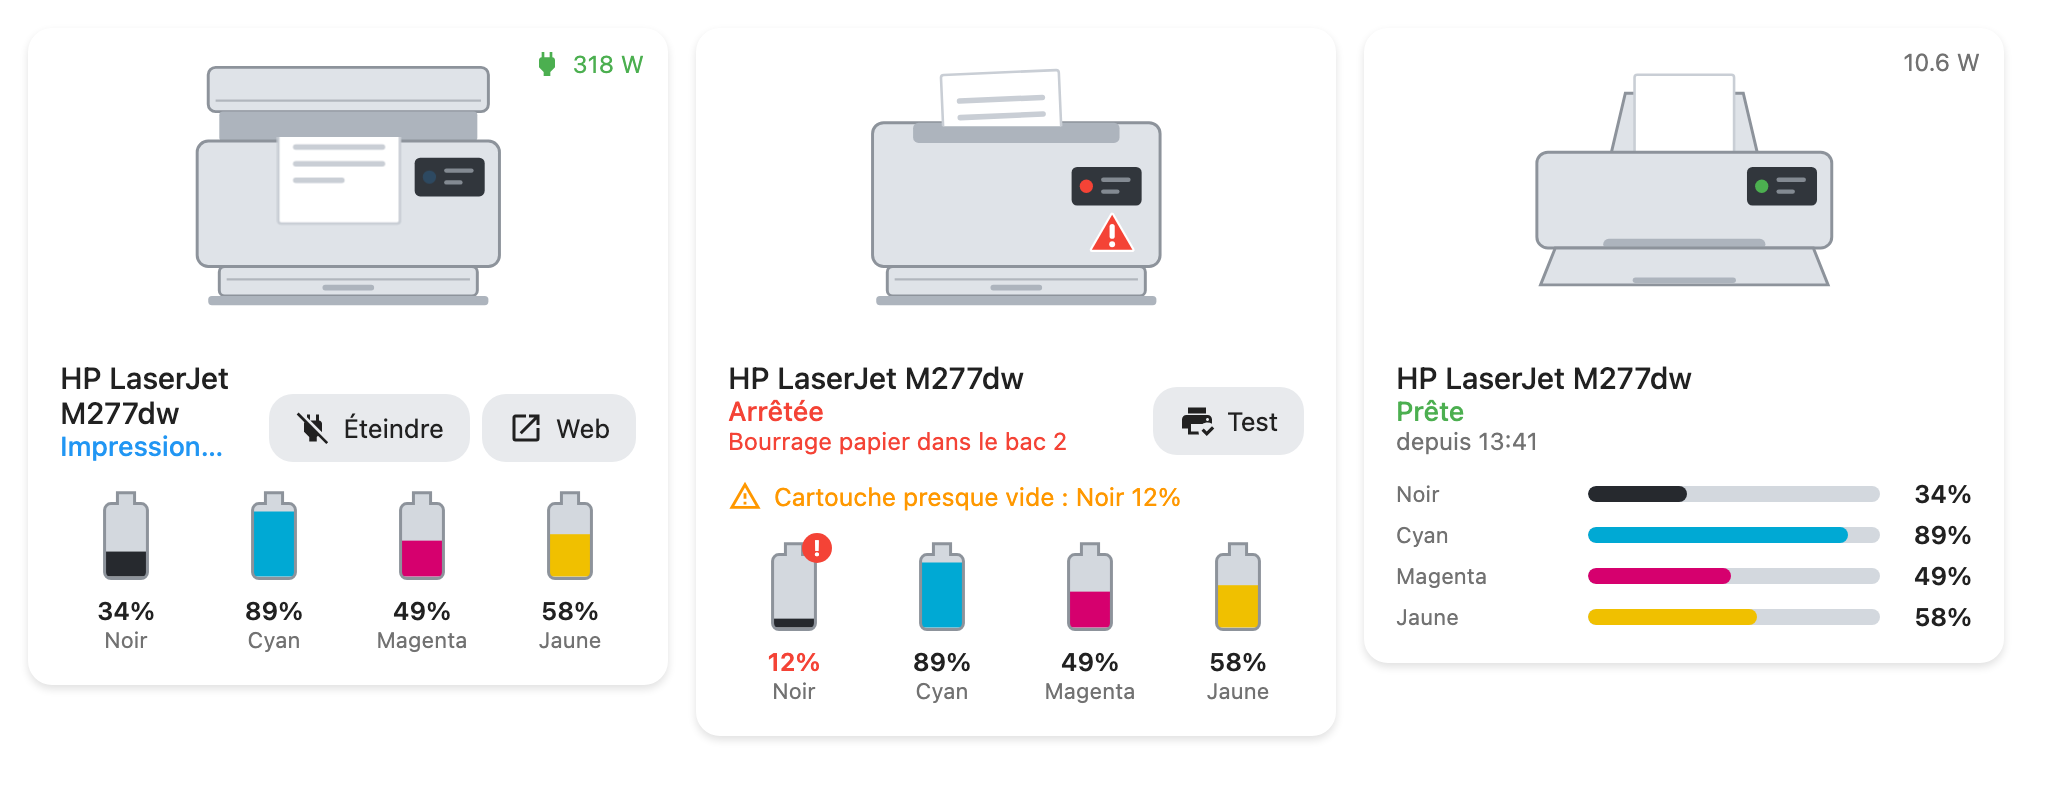
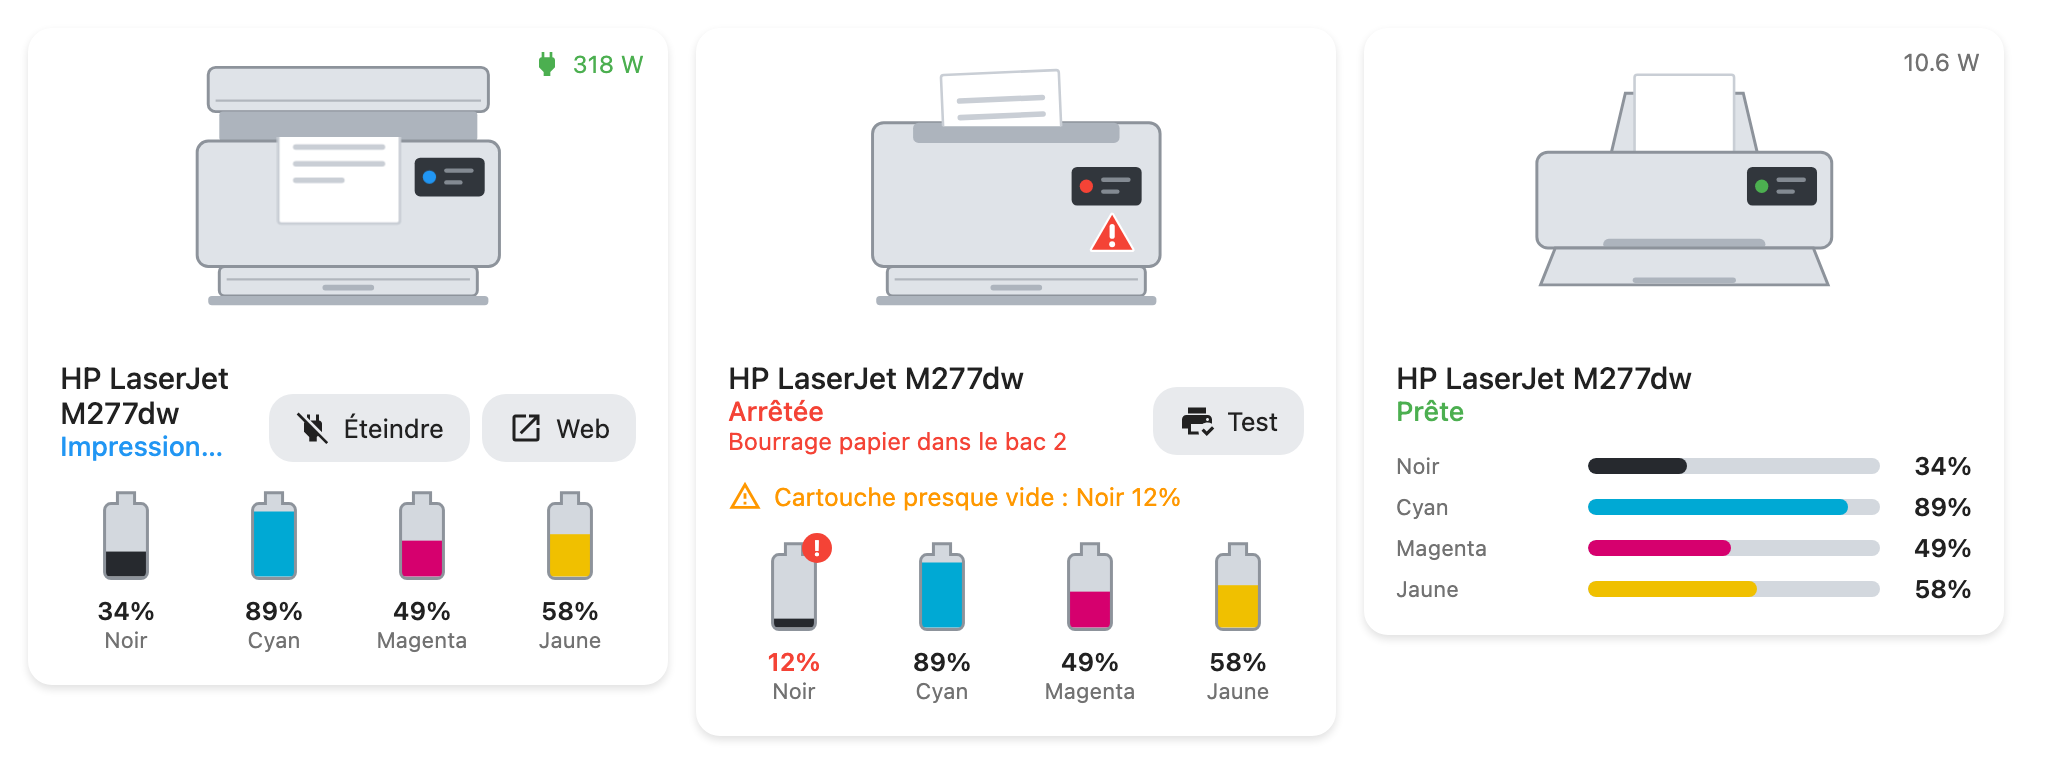
fix(compact): the socket chip no longer sits on top of the buttons, and the state's age is gone
The chip is pinned to the top-right corner, which in the full card is empty
space over the illustration. Compact mode has no illustration, so the chip
landed on the actions. It now joins the flow there, between the text and the
buttons.

Pinning was only half of it. The text block carries min-width:0, so on an
over-full row it collapsed to zero width and its own text painted over
whatever came next: the name was running through the chip. Compact rows are
the ones that overflow, so there the name and state truncate, the buttons keep
their icon and drop their label (kept as a tooltip, which they now carry in
every mode), and the row may wrap as a last resort.

Dropped the "since" line as well. A printer sits idle for days, which makes
the age of that state noise, and the one state where a duration would have
meant something, a job running for an hour, is the one it was hidden on.

diff --git a/dist/ha-printer-card.js b/dist/ha-printer-card.js
@@ -16,7 +16,7 @@ console.info(
 const T = {
   en: {
     printing: "Printing\u2026", idle: "Ready", sleep: "Sleep", stopped: "Stopped",
-    offline: "Offline", unknown: "Unknown state", since: "since",
+    offline: "Offline", unknown: "Unknown state",
     low: "Low", alert_low: "Cartridge low",
     supplies: "Supplies", toner: "Toner", ink: "Ink",
     c_black: "Black", c_cyan: "Cyan", c_magenta: "Magenta", c_yellow: "Yellow",
@@ -43,7 +43,7 @@ const T = {
   },
   fr: {
     printing: "Impression\u2026", idle: "Pr\u00eate", sleep: "Veille", stopped: "Arr\u00eat\u00e9e",
-    offline: "Hors ligne", unknown: "\u00c9tat inconnu", since: "depuis",
+    offline: "Hors ligne", unknown: "\u00c9tat inconnu",
     low: "Bas", alert_low: "Cartouche presque vide",
     supplies: "Consommables", toner: "Toner", ink: "Encre",
     c_black: "Noir", c_cyan: "Cyan", c_magenta: "Magenta", c_yellow: "Jaune",
@@ -70,7 +70,7 @@ const T = {
   },
   de: {
     printing: "Druckt\u2026", idle: "Bereit", sleep: "Ruhezustand", stopped: "Gestoppt",
-    offline: "Offline", unknown: "Unbekannter Zustand", since: "seit",
+    offline: "Offline", unknown: "Unbekannter Zustand",
     low: "Niedrig", alert_low: "Patrone fast leer",
     supplies: "Verbrauchsmaterial", toner: "Toner", ink: "Tinte",
     c_black: "Schwarz", c_cyan: "Cyan", c_magenta: "Magenta", c_yellow: "Gelb",
@@ -97,7 +97,7 @@ const T = {
   },
   es: {
     printing: "Imprimiendo\u2026", idle: "Lista", sleep: "Reposo", stopped: "Detenida",
-    offline: "Sin conexi\u00f3n", unknown: "Estado desconocido", since: "desde",
+    offline: "Sin conexi\u00f3n", unknown: "Estado desconocido",
     low: "Bajo", alert_low: "Cartucho casi vac\u00edo",
     supplies: "Consumibles", toner: "T\u00f3ner", ink: "Tinta",
     c_black: "Negro", c_cyan: "Cian", c_magenta: "Magenta", c_yellow: "Amarillo",
@@ -124,7 +124,7 @@ const T = {
   },
   it: {
     printing: "Stampa in corso\u2026", idle: "Pronta", sleep: "Sospensione", stopped: "Ferma",
-    offline: "Non in linea", unknown: "Stato sconosciuto", since: "da",
+    offline: "Non in linea", unknown: "Stato sconosciuto",
     low: "Basso", alert_low: "Cartuccia quasi esaurita",
     supplies: "Materiali di consumo", toner: "Toner", ink: "Inchiostro",
     c_black: "Nero", c_cyan: "Ciano", c_magenta: "Magenta", c_yellow: "Giallo",
@@ -151,7 +151,7 @@ const T = {
   },
   nl: {
     printing: "Bezig met afdrukken\u2026", idle: "Gereed", sleep: "Slaapstand", stopped: "Gestopt",
-    offline: "Offline", unknown: "Onbekende status", since: "sinds",
+    offline: "Offline", unknown: "Onbekende status",
     low: "Laag", alert_low: "Cartridge bijna leeg",
     supplies: "Verbruiksartikelen", toner: "Toner", ink: "Inkt",
     c_black: "Zwart", c_cyan: "Cyaan", c_magenta: "Magenta", c_yellow: "Geel",
@@ -178,7 +178,7 @@ const T = {
   },
   pt: {
     printing: "A imprimir\u2026", idle: "Pronta", sleep: "Suspensa", stopped: "Parada",
-    offline: "Offline", unknown: "Estado desconhecido", since: "desde",
+    offline: "Offline", unknown: "Estado desconhecido",
     low: "Baixo", alert_low: "Cartucho quase vazio",
     supplies: "Consum\u00edveis", toner: "Toner", ink: "Tinta",
     c_black: "Preto", c_cyan: "Ciano", c_magenta: "Magenta", c_yellow: "Amarelo",
@@ -205,7 +205,7 @@ const T = {
   },
   sv: {
     printing: "Skriver ut\u2026", idle: "Redo", sleep: "Vilol\u00e4ge", stopped: "Stoppad",
-    offline: "Offline", unknown: "Ok\u00e4nt tillst\u00e5nd", since: "sedan",
+    offline: "Offline", unknown: "Ok\u00e4nt tillst\u00e5nd",
     low: "L\u00e5g", alert_low: "Patron n\u00e4stan tom",
     supplies: "F\u00f6rbrukningsmaterial", toner: "Toner", ink: "Bl\u00e4ck",
     c_black: "Svart", c_cyan: "Cyan", c_magenta: "Magenta", c_yellow: "Gul",
@@ -232,7 +232,7 @@ const T = {
   },
   no: {
     printing: "Skriver ut\u2026", idle: "Klar", sleep: "Hvilemodus", stopped: "Stoppet",
-    offline: "Frakoblet", unknown: "Ukjent tilstand", since: "siden",
+    offline: "Frakoblet", unknown: "Ukjent tilstand",
     low: "Lav", alert_low: "Patron nesten tom",
     supplies: "Forbruksmateriell", toner: "Toner", ink: "Blekk",
     c_black: "Svart", c_cyan: "Cyan", c_magenta: "Magenta", c_yellow: "Gul",
@@ -259,7 +259,7 @@ const T = {
   },
   da: {
     printing: "Udskriver\u2026", idle: "Klar", sleep: "Dvale", stopped: "Stoppet",
-    offline: "Offline", unknown: "Ukendt tilstand", since: "siden",
+    offline: "Offline", unknown: "Ukendt tilstand",
     low: "Lav", alert_low: "Patron n\u00e6sten tom",
     supplies: "Forbrugsstoffer", toner: "Toner", ink: "Bl\u00e6k",
     c_black: "Sort", c_cyan: "Cyan", c_magenta: "Magenta", c_yellow: "Gul",
@@ -286,7 +286,7 @@ const T = {
   },
   pl: {
     printing: "Drukowanie\u2026", idle: "Gotowa", sleep: "U\u015bpienie", stopped: "Zatrzymana",
-    offline: "Offline", unknown: "Nieznany stan", since: "od",
+    offline: "Offline", unknown: "Nieznany stan",
     low: "Niski", alert_low: "Ko\u0144czy si\u0119 tusz",
     supplies: "Materia\u0142y eksploatacyjne", toner: "Toner", ink: "Tusz",
     c_black: "Czarny", c_cyan: "Cyjan", c_magenta: "Magenta", c_yellow: "\u017b\u00f3\u0142ty",
@@ -313,7 +313,7 @@ const T = {
   },
   ru: {
     printing: "\u041f\u0435\u0447\u0430\u0442\u044c\u2026", idle: "\u0413\u043e\u0442\u043e\u0432", sleep: "\u0421\u043f\u044f\u0449\u0438\u0439 \u0440\u0435\u0436\u0438\u043c", stopped: "\u041e\u0441\u0442\u0430\u043d\u043e\u0432\u043b\u0435\u043d",
-    offline: "\u041d\u0435 \u0432 \u0441\u0435\u0442\u0438", unknown: "\u041d\u0435\u0438\u0437\u0432\u0435\u0441\u0442\u043d\u043e\u0435 \u0441\u043e\u0441\u0442\u043e\u044f\u043d\u0438\u0435", since: "\u0441",
+    offline: "\u041d\u0435 \u0432 \u0441\u0435\u0442\u0438", unknown: "\u041d\u0435\u0438\u0437\u0432\u0435\u0441\u0442\u043d\u043e\u0435 \u0441\u043e\u0441\u0442\u043e\u044f\u043d\u0438\u0435",
     low: "\u041c\u0430\u043b\u043e", alert_low: "\u041a\u0430\u0440\u0442\u0440\u0438\u0434\u0436 \u0437\u0430\u043a\u0430\u043d\u0447\u0438\u0432\u0430\u0435\u0442\u0441\u044f",
     supplies: "\u0420\u0430\u0441\u0445\u043e\u0434\u043d\u044b\u0435 \u043c\u0430\u0442\u0435\u0440\u0438\u0430\u043b\u044b", toner: "\u0422\u043e\u043d\u0435\u0440", ink: "\u0427\u0435\u0440\u043d\u0438\u043b\u0430",
     c_black: "\u0427\u0451\u0440\u043d\u044b\u0439", c_cyan: "\u0413\u043e\u043b\u0443\u0431\u043e\u0439", c_magenta: "\u041f\u0443\u0440\u043f\u0443\u0440\u043d\u044b\u0439", c_yellow: "\u0416\u0451\u043b\u0442\u044b\u0439",
@@ -340,7 +340,7 @@ const T = {
   },
   zh: {
     printing: "\u6253\u5370\u4e2d\u2026", idle: "\u5c31\u7eea", sleep: "\u7761\u7720", stopped: "\u5df2\u505c\u6b62",
-    offline: "\u79bb\u7ebf", unknown: "\u72b6\u6001\u672a\u77e5", since: "\u81ea",
+    offline: "\u79bb\u7ebf", unknown: "\u72b6\u6001\u672a\u77e5",
     low: "\u4e0d\u8db3", alert_low: "\u58a8\u76d2\u5373\u5c06\u8017\u5c3d",
     supplies: "\u8017\u6750", toner: "\u78b3\u7c89", ink: "\u58a8\u6c34",
     c_black: "\u9ed1\u8272", c_cyan: "\u9752\u8272", c_magenta: "\u54c1\u7ea2", c_yellow: "\u9ec4\u8272",
@@ -612,12 +612,6 @@ function stateObj(hass, entityId) {
 
 function domainOf(entityId) {
   return entityId ? entityId.split(".")[0] : null;
-}
-
-function formatSince(isoDate) {
-  const d = new Date(isoDate);
-  if (isNaN(d)) return null;
-  return d.toLocaleTimeString([], { hour: "2-digit", minute: "2-digit" });
 }
 
 // The printer's own status text, when it has something to say. IPP fills
@@ -986,7 +980,6 @@ class PrinterCard extends HTMLElement {
 
     const color = STATE_COLORS[norm];
     const name = cfg.name || (st && st.attributes.friendly_name) || "Printer";
-    const since = st && norm !== "printing" ? formatSince(st.last_changed) : null;
     const msg = cfg.show_message === false ? null : statusMessage(st);
     const carts = cfg.show_supplies === false ? [] : readCartridges(hass, cfg);
     carts.forEach((c) => { c.label = cartridgeLabel(hass, c); });
@@ -1004,7 +997,7 @@ class PrinterCard extends HTMLElement {
     const showPower = cfg.show_power !== false && (plugOn !== null || watts !== null);
 
     const signature = JSON.stringify([
-      norm, name, since, msg, url, lang(hass), cfg.compact, cfg.printer_type,
+      norm, name, msg, url, lang(hass), cfg.compact, cfg.printer_type,
       cfg.cartridge_style, showPower, plugOn, watts, !!cfg.print_entity,
       inside, noPaper, carts.map((c) => [c.entity, c.level, c.low, c.color]),
     ]);
@@ -1025,15 +1018,20 @@ class PrinterCard extends HTMLElement {
             <span class="lbl">${escapeHtml(c.label)}</span>
           </div>`).join("")}</div>`;
 
+    const corner = showPower ? `<div class="corner ${plugOn ? "on" : ""}">
+          ${plugOn !== null ? `<ha-icon icon="${plugOn ? "mdi:power-plug" : "mdi:power-plug-off"}"></ha-icon>` : ""}
+          ${watts !== null ? `${watts.toFixed(watts >= 100 ? 0 : 1)} W` : ""}
+        </div>` : "";
+
     const buttons = [
       cfg.plug_entity && plugOn !== null
-        ? `<button data-action="plug"><ha-icon icon="${plugOn ? "mdi:power-plug-off" : "mdi:power-plug"}"></ha-icon><span>${t(hass, plugOn ? "plug_off" : "plug_on")}</span></button>`
+        ? `<button data-action="plug" title="${t(hass, plugOn ? "plug_off" : "plug_on")}"><ha-icon icon="${plugOn ? "mdi:power-plug-off" : "mdi:power-plug"}"></ha-icon><span>${t(hass, plugOn ? "plug_off" : "plug_on")}</span></button>`
         : "",
       cfg.print_entity
-        ? `<button data-action="print"><ha-icon icon="mdi:printer-check"></ha-icon><span>${t(hass, "print_btn")}</span></button>`
+        ? `<button data-action="print" title="${t(hass, "print_btn")}"><ha-icon icon="mdi:printer-check"></ha-icon><span>${t(hass, "print_btn")}</span></button>`
         : "",
       url
-        ? `<a class="btn" href="${escapeHtml(url)}" target="_blank" rel="noopener noreferrer"><ha-icon icon="mdi:open-in-new"></ha-icon><span>${t(hass, "web_btn")}</span></a>`
+        ? `<a class="btn" href="${escapeHtml(url)}" target="_blank" rel="noopener noreferrer" title="${t(hass, "web_btn")}"><ha-icon icon="mdi:open-in-new"></ha-icon><span>${t(hass, "web_btn")}</span></a>`
         : "",
     ].join("");
 
@@ -1082,13 +1080,22 @@ ha-card.compact .bottom { align-items:center; flex:1; }
 .body { min-width:0; flex:1 1 auto; }
 .name { font-size:15px; font-weight:500; color:var(--primary-text-color); }
 .state { font-size:13.5px; font-weight:500; color:var(--pc-color); }
-.since, .msg { font-size:12px; color:var(--secondary-text-color); }
+.msg { font-size:12px; }
 .msg { color:var(--error-color, #f44336); }
 .alert { display:flex; align-items:center; gap:6px; font-size:12.5px; color:var(--warning-color, #ff9800); }
 .alert ha-icon { --mdc-icon-size:17px; }
 .corner { position:absolute; top:10px; right:12px; display:flex; align-items:center; gap:5px; font-size:12px; color:var(--secondary-text-color); z-index:2; }
 .corner ha-icon { --mdc-icon-size:16px; }
 .corner.on { color:var(--success-color, #4caf50); }
+ha-card.compact .corner { position:static; flex:none; white-space:nowrap; }
+/* A flex child with min-width:0 collapses to nothing on an over-full row and
+   its text then paints over its neighbours. Compact rows are the ones that
+   overflow, so there the text truncates and the buttons keep icons only. */
+ha-card.compact .bottom { flex-wrap:wrap; row-gap:8px; }
+ha-card.compact .name, ha-card.compact .state, ha-card.compact .msg {
+  overflow:hidden; text-overflow:ellipsis; white-space:nowrap; }
+ha-card.compact button, ha-card.compact .btn { min-width:0; padding:8px 10px; }
+ha-card.compact button span, ha-card.compact .btn span { display:none; }
 .actions { display:flex; gap:6px; flex-wrap:wrap; justify-content:flex-end; flex:0 0 auto; }
 button, .btn { display:flex; align-items:center; justify-content:center; gap:6px; padding:8px 13px; border:none; border-radius:12px; cursor:pointer; font:inherit; font-size:13px; text-decoration:none; background:var(--secondary-background-color); color:var(--primary-text-color); }
 button:hover, .btn:hover { filter:brightness(.93); }
@@ -1119,10 +1126,7 @@ button ha-icon, .btn ha-icon { --mdc-icon-size:18px; }
 }
       </style>
       <ha-card class="${norm}${cfg.compact ? " compact" : ""}">
-        ${showPower ? `<div class="corner ${plugOn ? "on" : ""}">
-          ${plugOn !== null ? `<ha-icon icon="${plugOn ? "mdi:power-plug" : "mdi:power-plug-off"}"></ha-icon>` : ""}
-          ${watts !== null ? `${watts.toFixed(watts >= 100 ? 0 : 1)} W` : ""}
-        </div>` : ""}
+        ${cfg.compact ? "" : corner}
         <div class="top">
           ${cfg.compact
             ? `<div class="badge"><ha-icon icon="${STATE_ICONS[norm]}"></ha-icon></div>`
@@ -1133,6 +1137,7 @@ button ha-icon, .btn ha-icon { --mdc-icon-size:18px; }
               <div class="state">${t(hass, norm)}</div>
               ${msg ? `<div class="msg">${escapeHtml(msg)}</div>` : ""}
             </div>
+            ${corner}
             <div class="actions">${buttons}</div>
           </div>` : ""}
         </div>
@@ -1141,7 +1146,6 @@ button ha-icon, .btn ha-icon { --mdc-icon-size:18px; }
             <div class="name">${escapeHtml(name)}</div>
             <div class="state">${t(hass, norm)}</div>
             ${msg ? `<div class="msg">${escapeHtml(msg)}</div>` : ""}
-            ${since && !msg ? `<div class="since">${t(hass, "since")} ${since}</div>` : ""}
           </div>
           <div class="actions">${buttons}</div>
         </div>`}
